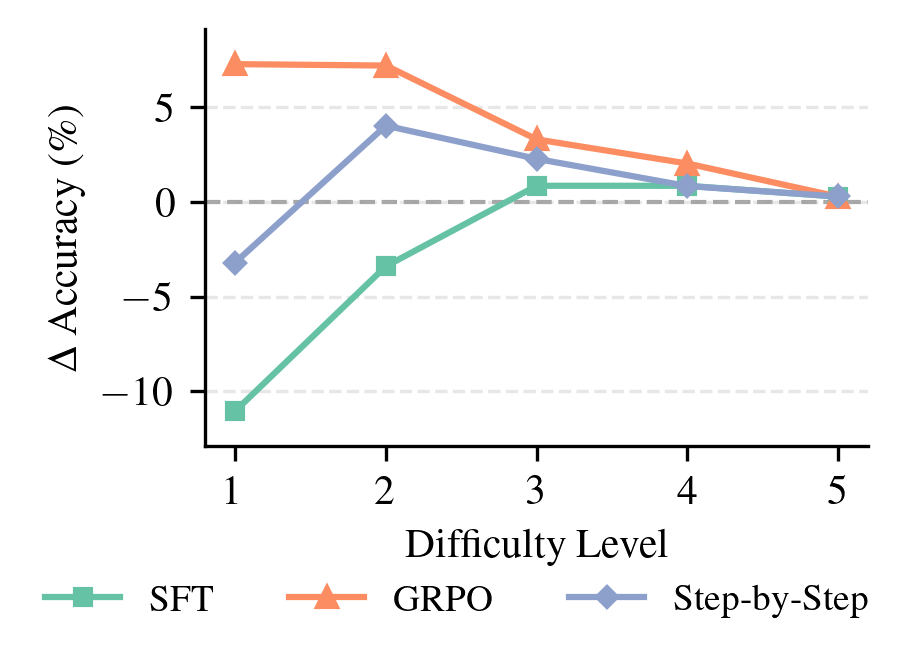
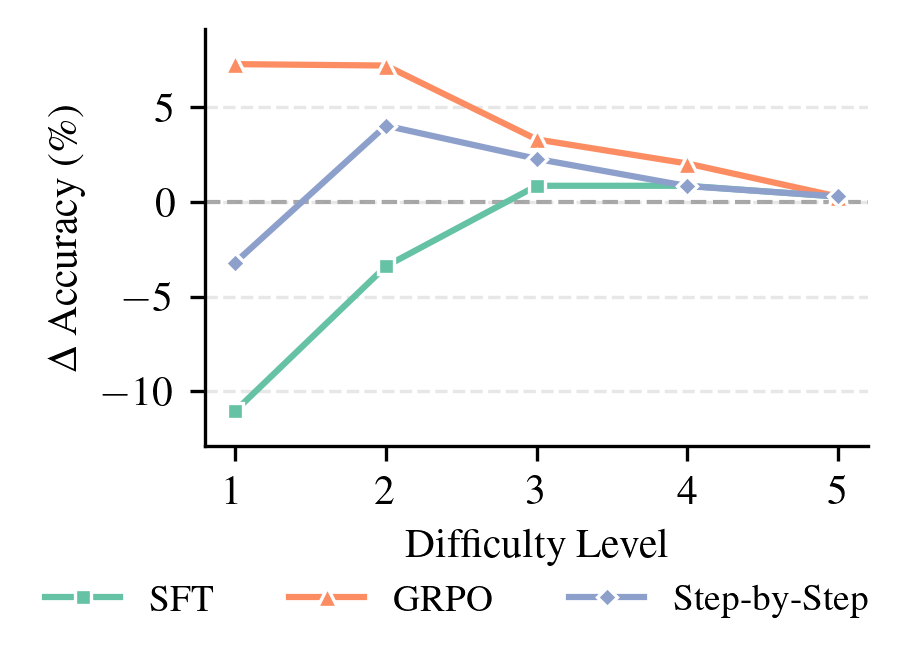
fix: add marker edge

diff --git a/analyze/visualize_solve_rate_by_difficulty.py b/analyze/visualize_solve_rate_by_difficulty.py
@@ -253,11 +253,14 @@ def create_visualization(output_dir):
     
     # Create line plots with markers for deltas
     ax.plot(difficulties, sft_delta, marker='s', linewidth=1.5,
-            label='SFT', color=color_sft, markersize=4)
+            label='SFT', color=color_sft, markersize=4,
+            markeredgecolor='white', markeredgewidth=0.8)
     ax.plot(difficulties, grpo_l_delta, marker='^', linewidth=1.5,
-            label='GRPO', color=color_grpo_l, markersize=5)
+            label='GRPO', color=color_grpo_l, markersize=5,
+            markeredgecolor='white', markeredgewidth=0.8)
     ax.plot(difficulties, sbs_delta, marker='D', linewidth=1.5,
-            label='Step-by-Step', color=color_sbs, markersize=3.5)
+            label='Step-by-Step', color=color_sbs, markersize=3.5,
+            markeredgecolor='white', markeredgewidth=0.8)
     
     # Add horizontal line at y=0 (baseline)
     ax.axhline(y=0, color='gray', linestyle='--', linewidth=1, alpha=0.7, zorder=0)
